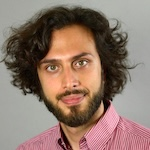
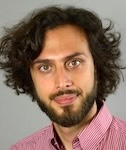
Updates to committee

diff --git a/_pages/committees.md b/_pages/committees.md
@@ -11,33 +11,34 @@ classes: wide
 <table>
   <tr>
     <td align="center">
-      <img src="{{ site.baseurl }}/assets/images/lmig_color_150x210.jpg" height="150"/><br/>
+      <img src="{{ site.baseurl
+  }}/assets/images/lmig_color_150x210.jpg" style="height: 250px"/><br/>
       <sub>Lise-Marie Imbert-Gerard</sub>
     </td>
     <td align="center">
-      <img src="{{ site.baseurl }}/assets/images/ct_portrait_0.jpg" height="150"/><br/>
+      <img src="{{ site.baseurl }}/assets/images/ct_portrait_0.jpg" style="height: 250px"/><br/>
       <sub>Chrysoula Tsogka</sub>
     </td>
     <td align="center">
-      <img src="{{ site.baseurl }}/assets/images/daniel_appelo_math.jpeg" height="150"/><br/>
+      <img src="{{ site.baseurl }}/assets/images/daniel_appelo_math.jpeg" style="height: 250px"/><br/>
       <sub>Daniel Appelo</sub>
     </td>
     <td align="center">
-      <img src="{{ site.baseurl }}/assets/images/hag.jpg" height="150"/><br/>
+      <img src="{{ site.baseurl }}/assets/images/hag.jpg" style="height: 250px"/><br/>
       <sub>Thomas Hagstrom</sub>
     </td>
   </tr>
   <tr>
     <td align="center">
-      <img src="{{ site.baseurl }}/assets/images/YML.JPG" height="150"/><br/>
+      <img src="{{ site.baseurl }}/assets/images/YML.JPG" style="height: 250px"/><br/>
       <sub>Yann-Meing Law</sub>
     </td>
     <td align="center">
-      <img src="{{ site.baseurl }}/assets/images/pPrudhomme.jpg" height="150"/><br/>
+      <img src="{{ site.baseurl }}/assets/images/pPrudhomme.jpg" style="height: 250px"/><br/>
       <sub>Serge Prudhomme</sub>
     </td>
     <td align="center">
-      <img src="{{ site.baseurl }}/assets/images/Behrooz.jpg" height="150"/><br/>
+      <img src="{{ site.baseurl }}/assets/images/Behrooz.jpg" style="height: 250px"/><br/>
       <sub>Behrooz Yousefzadeh</sub>
     </td>
   </tr>
